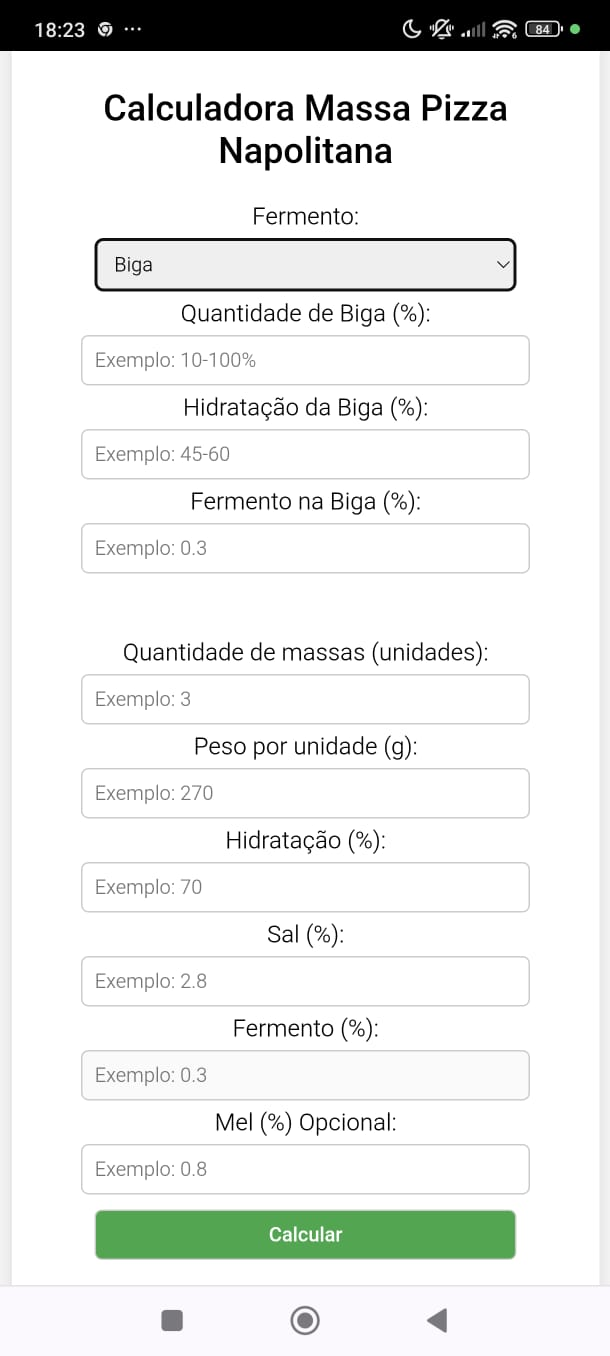
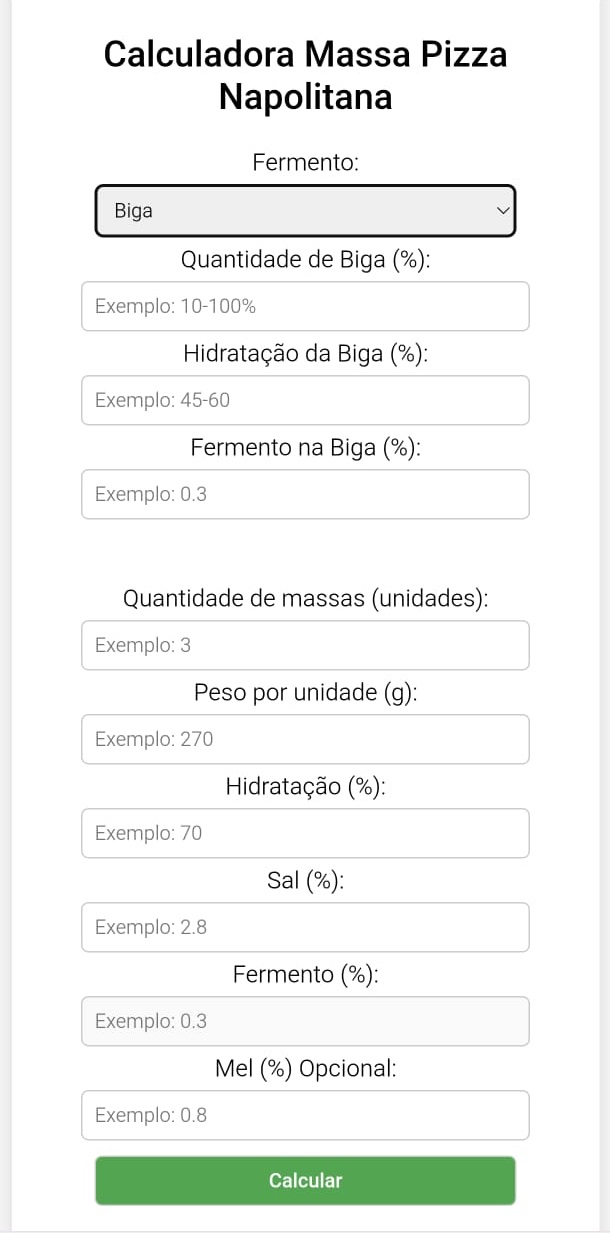
Add files via upload

Changed region(s): [[0.0, 0.0, 1.0, 0.4315], [0.1246, 0.6164, 0.8721, 0.9862], [0.1557, 0.4623, 0.8721, 0.6164]]

diff --git a/CSS/style.css b/CSS/style.css
@@ -1,3 +1,7 @@
+* {
+    box-sizing: border-box;
+}
+
 body {
     font-family: Arial, Helvetica, sans-serif;
     margin: 0px;
@@ -91,18 +95,20 @@ button:hover {
         padding: 15px;
     }
 
-    form{
+    form {
         width: 90%;
         padding: 10px;
     }
 
-    .foto img{
-        width: 150px;
-        height: 150px;
+    .foto img {
+        width: 90%;
+        height: auto;
     }
 
-    .fotoProjeto img, .pizzas img{
-        width: 100%;
+    .fotoProjeto img,
+    .pizzas img {
+        width: 90%;
+        height: auto;
     }
 }
 
@@ -120,7 +126,8 @@ button:hover {
     border: 5px solid #222;
 }
 
-.pizzas, .fotoProjeto{
+.pizzas,
+.fotoProjeto {
     display: flex;
     flex-wrap: wrap;
     justify-content: center;
@@ -130,7 +137,8 @@ button:hover {
 
 }
 
-.fotoProjeto img , .pizzas img {
+.fotoProjeto img,
+.pizzas img {
     width: 400px;
     object-fit: cover;
     border-radius: 10px;
@@ -138,7 +146,8 @@ button:hover {
     transition: transition 0.3s;
 }
 
-.pizzas img:hover , .fotoProjeto img:hover{
+.pizzas img:hover,
+.fotoProjeto img:hover {
     transform: scale(1.05);
 }
 
@@ -161,5 +170,5 @@ footer {
     justify-content: center;
     flex-wrap: wrap;
     text-align: center;
- 
+
 }

diff --git a/sobre.html b/sobre.html
@@ -21,7 +21,7 @@
     <h1>Sobre Mim</h1>
     <p>Olá, meu nome é <strong>Diego Marayo</strong>, tenho 34 anos e sou estudante de Engenharia de Software.</p>
     <p>Gosto muito de tecnologia, desenvolvimento de jogos, e também de culinária, especialmente fazer pizzas
-        napolitanas de longa fermentação, panuozzo, focaccia.</p>
+        napolitanas de longa fermentação, panuozzo e focaccia.</p>
     <p>Nos momentos livres, gosto de pedalar e também jogar video game e estudar.</p>
     <br>
 
@@ -31,7 +31,7 @@
         <img src="Imagens/pizza.jpeg" alt="pizza escarola">
         <img src="Imagens/pizza-banana-nevada.jpeg" alt="pizza de banana nevada">
     </div>
-    
+
     <footer>
         <p>2025 Diego Marayo - Todos os direitos reservados.</p>
     </footer>

diff --git a/index.html b/index.html
@@ -24,9 +24,9 @@
         <img src="Imagens/diego.jpeg" alt="foto de Diego"">
     </div>
 
-    <h1>Sejam Bem-vindos</h1>
+    <h1>Sejam Bem-Vindos</h1>
 
-    <p>Olá, meu nome é <strong>Diego</strong>. Este é meu portifólio pessoal onde irei compartilhar um pouco sobre mim,
+    <p>Olá, meu nome é <strong>Diego Marayo</strong>. Este é meu portifólio pessoal onde irei compartilhar um pouco sobre mim,
         minha formação, meus trabalhos, e muito mais.</p>
     <p>Fique à vontade para explorar as páginas e qualquer dúvida entre em contato comigo.</p>
 

diff --git a/portifolio.html b/portifolio.html
@@ -33,7 +33,7 @@
         massas que desejamos, o peso dessas massas, a hidratação, o sal e o mel.</p>
     <p>Isso tem facilitado demais pra mim, pois nesse universo das pizzas napolitas contemporâneas, de longa fermentação
         fazemos muitos testes constantemente, sempre em busca de um resultado melhor.</p>
-
+    <br>
 
     <div class="fotoProjeto">
         <img src="Imagens/projeto1.jpeg" alt="Foto Projeto Calculadora Massa Pizza">
